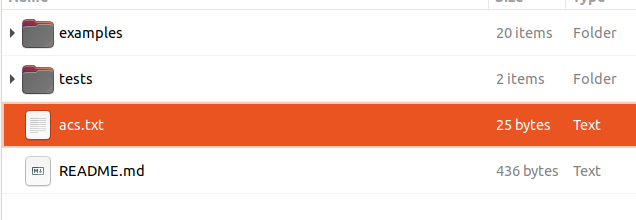
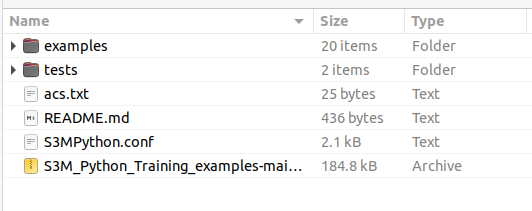
Improve tutorial.

diff --git a/docs/searchindex.js b/docs/searchindex.js
@@ -1,1 +1,1 @@
-Search.setIndex({docnames:["Approach","Introduction","LICENSE","Ontology","ReferenceModel","S3Model","Setup","index"],envversion:{"sphinx.domains.c":2,"sphinx.domains.changeset":1,"sphinx.domains.citation":1,"sphinx.domains.cpp":4,"sphinx.domains.index":1,"sphinx.domains.javascript":2,"sphinx.domains.math":2,"sphinx.domains.python":3,"sphinx.domains.rst":2,"sphinx.domains.std":2,sphinx:56},filenames:["Approach.rst","Introduction.rst","LICENSE.rst","Ontology.rst","ReferenceModel.rst","S3Model.rst","Setup.rst","index.rst"],objects:{},objnames:{},objtypes:{},terms:{"0":[2,4,5],"00":6,"1":4,"1887":[],"2":[2,5],"2009":2,"2020":5,"2022":2,"21090":4,"25":[],"3":[5,6],"30":[],"4":5,"45":5,"6":[],"7":6,"abstract":[0,3,4],"case":[5,6],"class":[0,3],"default":6,"do":[0,5,6],"float":4,"function":[0,4],"import":[0,1,4,5,6],"int":[],"long":6,"new":6,"null":5,"public":5,"return":6,"short":[],"try":1,"while":5,A:[0,1,3,4,5,6],AND:3,AS:2,And:5,As:0,At:5,Be:6,But:4,By:[],For:[0,1,4,5],IS:2,If:[0,3,6,7],In:[0,3,5,6],It:[0,3,5,6],NOT:3,No:0,Not:[3,4],OF:2,OR:[2,3],Of:0,On:6,One:0,Or:[],That:[5,6],The:[1,6,7],Then:5,There:[0,1,4,6],These:[4,5],To:6,_:2,abbrevi:3,abil:[0,5],abl:[],about:[0,1,4,5,6],abov:[1,5,6],absenc:5,abstract_model:3,accept:[],access:4,accident:6,accommod:4,accord:3,account:[],accuraci:[],across:[0,3,5],activ:[4,6],actual:[],ad:4,add:[4,5],addit:[3,4],addition:4,adher:[],advanc:5,advantag:[],after:[],against:[0,3],agi:[],agre:2,ai:5,air:4,algorithm:5,all:[0,1,3,4,6],allow:[0,4,5,6],almost:4,along:0,alreadi:[],also:[0,4,5],altern:5,although:[],alwai:[0,1],among:[],an:[0,2,3,4,5,6],anaconda:[5,6],analysi:[4,7],analyst:5,analyt:[],analyz:[0,5],ani:[0,2,4,6],anomal:5,anoth:0,answer:5,anyon:[],anyth:1,apach:2,appear:6,appli:[],applic:[0,1,2,4,5],approach:[1,5,6,7],appropri:[],approxim:5,ar:[0,1,3,4,5,6],archiv:[],area:[],arm:5,around:[0,5],articl:5,artifici:5,ask:6,asp:[],assign:[],associ:5,ateri:5,atmospher:5,attest:4,attribut:[0,4],audienc:7,audit:4,author:4,autom:5,automat:0,avail:[0,4,5,6],base:[0,1,3,5,6],basi:[0,2],basic:6,becaus:[0,3],becom:[1,5],been:[0,3],befor:1,begin:4,behavior:[],being:5,belgium:[],below:3,bespok:5,best:[5,6],better:[5,6],between:5,beyond:4,bill:[],bioport:5,blood:5,bodi:0,bold:0,boost:[],bore:[],both:[],bottom:1,brazil:[],broad:3,browser:6,budget:[],build:[0,1,5,6],built:[0,5],buisi:0,busi:[0,5],button:6,c:6,call:[3,5],came:[],can:[0,3,4,5,6],canon:4,capabl:4,captur:[4,5],cardin:[],categori:[],caution:3,cd:6,cell:[1,6],center:0,central:0,ceo:[],certain:0,certainli:6,cfo:[],chain:0,chang:[0,1,6],chapter:[0,1],charact:[],check:[],chief:[],children:3,china:[],choic:6,choos:0,chose:4,chosen:[0,5],chrome:6,claim:0,clariti:7,clean:5,clear:0,clearli:0,click:6,client:[],close:6,cm:3,cmc:3,code:[4,6],coher:1,collect:[4,5],collis:[],com:[0,2,3,4,5],combin:[],come:[],command:6,common:[4,5],commonli:[],commun:[0,5],compani:5,compat:4,complet:[1,4,6],complex:[0,4,5],complextyp:0,compli:[],complianc:[2,5],compliant:0,complimentari:[],compon:[0,1,3,4,6],comprehens:[],comput:[5,6],concept:[0,3,5],conceptu:0,concret:[],conda:6,condit:2,conduct:[],confirm:6,conform:[0,3],confus:3,congratul:6,connect:3,consid:[3,4],consist:[0,4,5],constrain:3,constraint:[0,3],construct:[],consum:5,contain:[3,4],content:[4,5],context:[0,4,5],contextu:[3,5],continu:[1,6],control:[4,5],convent:3,convers:4,convert:4,convien:6,coo:[],cook:2,copi:2,copyright:2,core:[3,4,7],corpor:[],could:[],cours:0,cousin:[],cover:[],coverag:4,creat:[0,5,6],creation:[4,5],creator:[],cross:5,cuff:5,cuid:4,current:7,dai:[],data:[0,1,3,4,6,7],databas:[0,4,5],datainst:3,datainstanceerror:3,datainstanceinvalid:3,datainstancevalid:3,datamodel:[],datatyp:[3,4],date:[],deal:5,decentr:5,decim:4,decis:5,defin:[0,3,4,5],definit:[0,3,4,5],demonstr:5,denot:[],depend:[],deriv:0,descend:4,describ:[0,4],descript:[4,5,6],design:[0,5],destin:[],detail:[0,1,4,6],determin:[],develop:[0,4,5,6],devic:[],devis:[],did:5,didn:[],differ:5,digit:[],direct:5,directli:[],directori:6,discard:3,discern:0,discov:5,displai:[0,6],distinct:4,distribut:2,dm:[0,3,6],dmtype:6,doc:[0,3,5],document:[0,1,3,4,5,6,7],doe:[0,3],domain:[0,3,4,5],don:6,download:6,downstream:[4,5],dr:[],drawback:1,dropdown:6,dublin:4,due:[0,4,5],dull:5,duplic:5,dure:[5,6],e:[],each:[1,3,4,5,6],earlier:6,eas:5,easi:0,easili:[0,4,5],ecosystem:0,edg:6,editor:[],either:2,el_complextyp:[],element:[0,3,4,6],els:1,empow:5,encourag:0,end:4,endeavor:[],energi:5,engin:5,enhanc:5,enough:[],enter:6,enterpris:0,entiti:[],entri:[],environ:6,equival:0,ericelliott:4,erron:[4,5],error:[4,5,7],especi:5,esperanto:7,essenti:4,etc:[4,6],european:[],even:0,everi:[],exampl:[0,4,5,7],except:[2,3,4],exchang:[0,5],execut:1,exercis:6,exist:[4,5],expand:4,expans:4,experi:1,expert:[0,5,6],explain:3,explor:6,express:[0,2,3,5],extens:[0,5],extern:6,extract:[5,6],extractor:6,facet:[],facil:4,fact:5,factor:0,familiar:1,far:6,favorit:5,fidel:5,field:[],fight:[],figur:5,file:[0,2,4,6,7],find:[0,5,6,7],firefox:6,first:6,fit:5,flag:4,flexabl:0,flexibl:[],folder:6,follow:6,forb:5,forg:6,formal:[],format:[0,4,5],formul:[],forth:[],found:[0,4,5],foundat:[0,4],framework:[0,5],franc:[],frequent:[],friendli:5,from:[0,1,3,4,5,6],front:[],full:5,fulli:5,further:[0,3],futur:0,g:[],gener:0,generaliz:0,gentl:1,geograph:4,germani:[],get:[6,7],github:[4,6],give:[],given:[0,3],global:[0,5],glossari:[0,5],go:[1,5,6],goe:5,good:5,govern:[0,2],graph:[0,3,5],great:1,green:6,group:[],grow:5,guid:[0,1],guidelin:0,ha:[0,3,6],hand:[],have:[0,5,6],healthcar:5,heart:[],help:[4,5,6],here:[0,1,4,6,7],hierarchi:0,high:0,higher:0,home:[],host:4,how:[0,5,6],howev:[0,1,3],html:[0,3,5],http:[0,2,3,4,5],human:5,id:0,idea:[3,4],identif:[],identifi:[0,4,5],ignor:5,imag:3,immedi:0,immut:[],implement:[0,1,3,4,5,6],implemnt:[],impli:2,imposs:0,improp:5,includ:[0,3,4],inconsist:5,index:7,indic:[3,6],individu:0,industri:[0,5],infer:0,inform:[0,3,4,5,7],infotrop:[],infrastructur:0,inherit:0,input:5,instal:[1,6],instanc:[0,3],instanti:5,instead:[],instruct:[1,6],insur:[],integ:4,integr:3,intellig:5,intend:5,interact:6,interchang:[],interconnect:5,interest:[],interfac:6,interlink:0,intern:5,internation:[],internet:6,interoper:[3,5,7],interpret:[5,6],introduct:[0,7],invalid:3,investig:5,involv:5,ipynb:6,isinstanceof:3,iso:4,issu:[0,5,6,7],itali:[],item:3,its:3,japan:[],javascript:[],json:[0,4,5],jupyt:[1,7],jupyterlab:6,just:5,kei:[6,7],kind:2,kingdom:[],know:[0,6],knowledg:5,known:5,label:0,lack:7,languag:[0,2,3,4,5],larg:5,last:6,later:6,latitud:4,law:2,ld:4,lead:5,learn:[5,6],least:3,less:[],lesson:6,level:7,li:[],librari:1,licens:[4,5,7],like:[0,6],limit:2,line:6,link:[0,4,5,6],linkedin:2,linux:6,list:6,local:4,locat:[4,5,6],logic:1,logo:6,longitud:4,look:6,loss:5,lot:5,mac:6,machin:5,made:[],mai:[0,2,3,4,5],mainli:[],major:[],make:[0,5],maker:5,manag:7,mandatori:3,mani:[4,5],manipul:4,manner:5,manual:[5,6],map:[],markup:5,mathemat:5,maximum:[],mc:[],mean:[4,5],meanin:[],meaning:5,measur:5,mechan:[],medium:[],meer:[],meet:5,menu:[1,6],metadata:4,method:[],might:[],migrat:0,minimum:[],miss:[4,5],mkdir:6,model:[0,1,3,5,6],modifi:4,modul:7,more:[0,3,4,5],most:5,move:[],movement:5,ms:0,much:[],multi:7,multipl:[0,3,5],music:5,must:[1,3,6],mutual:[],n:6,name:[0,1,3,6],narrow:0,nation:0,natur:[4,5],navig:6,necessari:0,need:[0,4,5,6],nest:0,net:0,network:[],never:0,next:[0,6],niem:0,node:[],non:6,notat:[],note:3,notebook:[1,7],now:[5,6],number:[0,6],object:[0,3],obtain:2,occur:[],occurr:[],offer:[],offici:1,often:[4,5],omiss:7,onc:[],one:[0,3,5],oner:5,onli:[0,5],onlin:[4,5],ontolog:[0,4,5,7],open:[5,6],oper:[4,6],option:[0,1,3,6],order:[4,5],org:[2,5],organ:[4,5],orient:0,origin:6,other:[0,3,4,5,6],otherwis:[],our:5,out:5,outcom:5,over:[],overview:7,owl:[0,5],own:5,p:[],packag:6,page:[0,1,6,7],paid:[],parent:[0,4],part:[],particip:4,particular:[],partner:[],partof:3,patient:5,perfect:5,perform:[],perman:5,permiss:2,person:[],phase:5,pip:6,pipelin:5,place:[0,6],platform:5,pleas:[0,7],point:[0,4,5],poland:[],poor:5,port:[],possibl:[],power:[],practic:3,pre:[],precari:1,preced:0,precis:[],predic:[],predict:5,prefer:[],prefix:0,prepar:5,prerequisit:7,present:[],pressur:5,pretti:5,primari:0,privaci:5,probabl:5,problem:7,process:[0,5],produc:[0,5],program:[0,4],project:5,prompt:6,prone:5,properti:3,propos:[],proposit:0,protocol:[],provid:[0,1,3,4,5],publish:5,pupos:[],purg:5,purpos:[0,5,7],put:[0,6],pypi:[],python:[1,6],qualifi:5,qualiti:4,queri:[0,5],question:5,quit:3,rang:4,rank:[],raw:5,rdf:[0,3,4,5],read:[],readabl:5,reader:5,readi:6,real:[0,5],realiz:[],reason:[4,5],receiv:0,recent:5,recommend:[1,6],reconcil:5,record:[4,5],reduc:0,ref:[],refer:[0,1,3,5,6,7],refernc:[],reflect:5,refresh:6,refus:5,regul:[],relat:[3,5],relationship:[0,4],releas:[],rememb:6,remov:5,replac:3,report:[3,7],repositori:6,repres:[0,3,4],represent:[],requir:[0,2,3,4,5],resart:6,research:0,resist:[],resourc:[4,5],respond:6,rest:1,restrict:0,result:5,retriev:0,reus:[0,3],reusabl:[3,7],revers:0,revis:[],rich:1,right:6,rip:[],rm:[0,3,4],rmc:3,rmss:3,robust:5,root:[0,3,6],row:[],rule:[],run:[1,6],s3m:[3,6],s3m_python:1,s3m_python_training_exampl:6,s3model:[0,3,4,6],s3mpython:6,s3mtrain:6,s:[0,7],safeti:0,sai:[],said:5,same:[5,6],scale:[],schema:[0,4,5],schema_facet:[],schemaloc:0,scienc:7,scientist:5,search:[0,5,7],secur:[0,5],see:[1,2,3,6],seem:[],select:[3,6],sem:[],semant:[0,1,3,4,5],send:[],sens:[],sensit:4,sensor:[4,5],sequenc:1,seri:[],serial:4,serv:3,server:6,session:[],set:[0,1,3,5,6],setup:[1,7],sever:5,sharabl:5,share:[0,5],shareabl:[0,3,5],should:[3,5,6],show:3,shown:6,side:6,similar:[4,5,6],simpl:[0,3,4,5],simpli:0,sinc:0,singl:3,situat:4,sketch:[],skill:[],slighlti:0,small:0,so:[],social:[0,5],softwar:[0,2],solut:7,solv:5,some:[1,3,5],sometim:3,sourc:[3,5],space:5,spatial:4,speaker:[],special:[],specif:[0,1,2,3,5],specifi:3,spend:5,spent:5,sponsor:0,sql:[4,5],ssn:0,stabl:5,stand:[],standard:[4,5],start:[6,7],state:3,statement:[],statist:5,step:[5,6],still:[0,5],storag:5,store:[0,5],strategi:[],string:[0,4],strong:[],strongli:1,structur:[3,4,5],studi:[],subclass:3,subdirectori:6,subject:[],substitut:3,successfulli:6,suffici:[0,4,5],suggest:1,suit:0,summari:7,superclass:[],superset:[],suppli:5,support:3,sure:[1,6],surprisingli:[],survei:5,suspect:3,symbol:3,syntact:3,syntax:5,system:[5,6],t:6,tab:6,tabl:[],tag:4,target:7,technic:[0,1,3],techniqu:[],technolog:[],tediou:5,temperatur:5,tempor:4,term:[0,7],termin:6,test:[3,6],text:[],than:5,thei:[0,4,5],them:4,themselv:[],therefor:[0,5],thi:[0,2,3,4,5,6,7],thing:[1,6],think:6,those:[4,5],though:0,thouogh:[],three:[],through:[1,3,5],thu:[],time:[0,4,5],timothi:2,timothywaynecook:2,titl:4,todai:[],tool:[0,1,4,5],top:1,toward:5,transfer:4,transit:3,translat:[],transmit:[],tree:5,tripl:[],turtl:4,tutori:7,two:[],type:[0,3,4],typic:5,ubiqu:0,ubiquit:4,unambigu:[],unbound:[],under:[2,5],understand:[5,6],uniqu:[0,4],unit:[],unknown:5,unless:[2,6],up:5,upon:0,upper:3,us:[0,2,3,4,5,6,7],usag:4,user:[0,1,4,6],usual:[3,5],utmost:5,valid:[0,3,4,5],valu:[0,1,3,4,5],valuabl:[1,3],variou:[0,5],veri:0,versa:[],version:[0,2,3,6],via:[3,5],vice:[],view:[],virtual:4,vocabulari:5,vs:[],w3c:[],w3school:[],w:2,wa:[4,5],wai:6,want:[],warranti:2,we:[0,1,4,5,6],web3:5,web:[5,6],websit:[],well:[3,4,6],went:6,what:[4,7],when:[0,1,3,5,6],where:[0,6],which:[3,5],white:5,whiteboard:[],who:4,whole:[],why:5,wide:[],window:6,within:0,without:[2,5],word:[],work:[0,1,5],world:0,wrapper:6,write:2,www:2,xdanytyp:4,xdcount:0,xdcounttyp:0,xml:[0,4,5],xsi:0,y:6,you:[0,1,2,5,6,7],your:[0,5,6],zamenhof:[],zip:6},titles:["The Multi-Level Approach","S3Model Introduction","License","The Ontology","The Reference Model","What is S3Model?","Tutorial Setup","Shareable, Structured, Semantic Model (S3Model)"],titleterms:{The:[0,3,4,5],analysi:5,approach:0,audienc:5,cardin:[],content:7,core:0,current:5,data:5,exampl:6,get:1,glossari:[],guid:7,indic:7,interoper:0,introduct:1,jupyt:6,kei:0,level:0,licens:2,model:[4,7],multi:0,notebook:6,ontolog:3,overview:[0,4],prerequisit:6,problem:5,purpos:[3,4],refer:4,reusabl:0,s3model:[1,5,7],s:5,scienc:5,semant:7,setup:6,shareabl:7,solut:5,start:1,structur:7,summari:[0,5],tabl:7,target:5,term:3,tutori:[1,6],us:1,user:7,what:5}})
+Search.setIndex({docnames:["Approach","Introduction","LICENSE","Ontology","ReferenceModel","S3Model","Setup","index"],envversion:{"sphinx.domains.c":2,"sphinx.domains.changeset":1,"sphinx.domains.citation":1,"sphinx.domains.cpp":4,"sphinx.domains.index":1,"sphinx.domains.javascript":2,"sphinx.domains.math":2,"sphinx.domains.python":3,"sphinx.domains.rst":2,"sphinx.domains.std":2,sphinx:56},filenames:["Approach.rst","Introduction.rst","LICENSE.rst","Ontology.rst","ReferenceModel.rst","S3Model.rst","Setup.rst","index.rst"],objects:{},objnames:{},objtypes:{},terms:{"0":[2,4,5],"00":6,"1":4,"1887":[],"2":[2,5],"2009":2,"2020":5,"2022":2,"21090":4,"25":[],"3":[5,6],"30":[],"4":5,"45":5,"6":[],"7":6,"abstract":[0,3,4],"case":[5,6],"class":[0,3],"default":6,"do":[0,5,6],"float":4,"function":[0,4],"import":[0,1,4,5,6],"int":[],"long":6,"new":6,"null":5,"public":5,"return":6,"short":[],"try":1,"while":5,A:[0,1,3,4,5,6],AND:3,AS:2,And:5,As:0,At:5,Be:6,But:4,By:[],For:[0,1,4,5],IS:2,If:[0,3,6,7],In:[0,3,5,6],It:[0,3,5,6],NOT:3,No:0,Not:[3,4],OF:2,OR:[2,3],Of:0,On:6,One:0,Or:[],That:[5,6],The:[1,6,7],Then:5,There:[0,1,4,6],These:[4,5],To:6,_:2,abbrevi:3,abil:[0,5],abl:[],about:[0,1,4,5,6],abov:[1,5,6],absenc:5,abstract_model:3,accept:[],access:4,accident:6,accommod:4,accord:3,account:[],accuraci:[],across:[0,3,5],activ:[4,6],actual:[],ad:4,add:[4,5],addit:[3,4],addition:4,adher:[],advanc:5,advantag:[],after:[],against:[0,3],agi:[],agre:2,ai:5,air:4,algorithm:5,all:[0,1,3,4,6],allow:[0,4,5,6],almost:4,along:0,alreadi:[],also:[0,4,5],altern:5,although:[],alwai:[0,1],among:[],an:[0,2,3,4,5,6],anaconda:[5,6],analysi:[4,7],analyst:5,analyt:[],analyz:[0,5],ani:[0,2,4],anomal:5,anoth:0,answer:5,anyon:[],anyth:1,apach:2,appear:6,appli:[],applic:[0,1,2,4,5],approach:[1,5,6,7],appropri:[],approxim:5,ar:[0,1,3,4,5,6],archiv:[],area:[],arm:5,around:[0,5],articl:5,artifici:5,ask:6,asp:[],assign:[],associ:5,ateri:5,atmospher:5,attest:4,attribut:[0,4],audienc:7,audit:4,author:4,autom:5,automat:0,avail:[0,4,5,6],base:[0,1,3,5,6],basi:[0,2],basic:6,becaus:[0,3],becom:[1,5],been:[0,3],befor:1,begin:4,behavior:[],being:5,belgium:[],below:3,bespok:5,best:[5,6],better:[5,6],between:5,beyond:4,bill:[],bioport:5,blood:5,bodi:0,bold:0,boost:[],bore:[],both:[],bottom:1,brazil:[],broad:3,browser:6,budget:[],build:[0,1,5,6],built:[0,5],buisi:0,busi:[0,5],button:6,c:6,call:[3,5],came:[],can:[0,3,4,5,6],canon:4,capabl:4,captur:[4,5],cardin:[],categori:[],caution:3,cd:6,cell:[1,6],center:0,central:0,ceo:[],certain:0,certainli:6,cfo:[],chain:0,chang:[0,1,6],chapter:[0,1],charact:[],check:[],chief:[],children:3,china:[],choic:6,choos:0,chose:4,chosen:[0,5],chrome:6,claim:0,clariti:7,clean:5,clear:0,clearli:0,click:6,client:[],close:6,cm:3,cmc:3,code:[4,6],coher:1,collect:[4,5],collis:[],com:[0,2,3,4,5],combin:[],come:[],command:6,common:[4,5],commonli:[],commun:[0,5],compani:5,compat:4,complet:[1,4,6],complex:[0,4,5],complextyp:0,compli:[],complianc:[2,5],compliant:0,complimentari:[],compon:[0,1,3,4,6],comprehens:[],comput:[5,6],concept:[0,3,5],conceptu:0,concret:[],conda:6,condit:2,conduct:[],confirm:6,conform:[0,3],confus:3,congratul:6,connect:3,consid:[3,4],consist:[0,4,5],constrain:3,constraint:[0,3],construct:[],consum:5,contain:[3,4],content:[4,5],context:[0,4,5],contextu:[3,5],continu:[1,6],control:[4,5],convent:3,convers:4,convert:4,convien:6,coo:[],cook:2,copi:2,copyright:2,core:[3,4,7],corpor:[],could:[],cours:0,cousin:[],cover:[],coverag:4,creat:[0,5,6],creation:[4,5],creator:[],cross:5,cuff:5,cuid:4,current:7,dai:[],data:[0,1,3,4,6,7],databas:[0,4,5],datainst:3,datainstanceerror:3,datainstanceinvalid:3,datainstancevalid:3,datamodel:[],datatyp:[3,4],date:[],deal:5,decentr:5,decim:4,decis:5,defin:[0,3,4,5],definit:[0,3,4,5],demonstr:5,denot:[],depend:[],deriv:0,descend:4,describ:[0,4],descript:[4,5,6],design:[0,5],destin:[],detail:[0,1,4,6],determin:[],develop:[0,4,5,6],devic:[],devis:[],did:5,didn:[],differ:5,digit:[],direct:5,directli:[],directori:6,discard:3,discern:0,discov:5,displai:[0,6],distinct:4,distribut:2,dm:[0,3,6],dmtype:6,doc:[0,3,5],document:[0,1,3,4,5,6,7],doe:[0,3],domain:[0,3,4,5],don:6,download:6,downstream:[4,5],dr:[],drawback:1,dropdown:6,dublin:4,due:[0,4,5],dull:5,duplic:5,dure:[5,6],e:[],each:[1,3,4,5,6],earlier:6,eas:5,easi:0,easili:[0,4,5],ecosystem:0,edg:6,editor:[],either:2,el_complextyp:[],element:[0,3,4,6],els:1,empow:5,encourag:0,end:4,endeavor:[],energi:5,engin:5,enhanc:5,enough:[],enter:6,enterpris:0,entiti:[],entri:[],environ:6,equival:0,ericelliott:4,erron:[4,5],error:[4,5,7],especi:5,esperanto:7,essenti:4,etc:[4,6],european:[],even:0,everi:[],exampl:[0,4,5,7],except:[2,3,4],exchang:[0,5],execut:1,exercis:6,exist:[4,5],expand:4,expans:4,experi:1,expert:[0,5,6],explain:3,explor:6,express:[0,2,3,5],extens:[0,5],extern:6,extract:[5,6],extractor:6,facet:[],facil:4,fact:5,factor:0,familiar:1,far:6,favorit:5,fidel:5,field:[],fight:[],figur:5,file:[0,2,4,6,7],find:[0,5,6,7],firefox:6,first:6,fit:5,flag:4,flexabl:0,flexibl:[],folder:6,follow:6,forb:5,forg:6,formal:[],format:[0,4,5],formul:[],forth:[],found:[0,4,5],foundat:[0,4],framework:[0,5],franc:[],frequent:[],friendli:5,from:[0,1,3,4,5,6],front:[],full:5,fulli:5,further:[0,3],futur:0,g:[],gener:0,generaliz:0,gentl:1,geograph:4,germani:[],get:7,github:[4,6],give:[],given:[0,3],global:[0,5],glossari:[0,5],go:[1,5,6],goe:5,good:5,govern:[0,2],graph:[0,3,5],great:1,green:6,group:[],grow:5,guid:[0,1],guidelin:0,ha:[0,3,6],hand:[],have:[0,5,6],healthcar:5,heart:[],help:[4,5,6],here:[0,1,4,6,7],hierarchi:0,high:0,higher:0,home:[],host:4,how:[0,5,6],howev:[0,1,3],html:[0,3,5],http:[0,2,3,4,5],human:5,id:0,idea:[3,4],identif:[],identifi:[0,4,5],ignor:5,imag:3,immedi:0,immut:[],implement:[0,1,3,4,5,6],implemnt:[],impli:2,imposs:0,improp:5,includ:[0,3,4],inconsist:5,index:7,indic:[3,6],individu:0,industri:[0,5],infer:0,inform:[0,3,4,5,7],infotrop:[],infrastructur:0,inherit:0,input:5,instal:[1,7],instanc:[0,3],instanti:5,instead:[],instruct:[1,6],insur:[],integ:4,integr:3,intellig:5,intend:5,interact:6,interchang:[],interconnect:5,interest:[],interfac:6,interlink:0,intern:5,internation:[],internet:6,interoper:[3,5,7],interpret:[5,6],introduct:[0,7],invalid:3,investig:5,involv:5,ipynb:6,isinstanceof:3,iso:4,issu:[0,5,6,7],itali:[],item:3,its:3,japan:[],javascript:[],json:[0,4,5],jupyt:[1,7],jupyterlab:6,just:[5,6],kei:[6,7],kind:2,kingdom:[],know:[0,6],knowledg:5,known:5,label:0,lack:7,languag:[0,2,3,4,5],larg:5,last:6,later:6,latitud:4,law:2,ld:4,lead:5,learn:[5,6],least:3,leav:6,less:[],lesson:6,level:7,li:[],librari:1,licens:[4,5,7],like:[0,6],limit:2,line:6,link:[0,4,5,6],linkedin:2,linux:6,list:6,local:4,locat:[4,5],logic:1,logo:6,longitud:4,look:6,loss:5,lot:5,mac:6,machin:5,made:[],mai:[0,2,3,4,5],mainli:[],major:[],make:[0,5],maker:5,manag:7,mandatori:3,mani:[4,5],manipul:4,manner:5,manual:[5,6],map:[],markup:5,mathemat:5,maximum:[],mc:[],mean:[4,5],meanin:[],meaning:5,measur:5,mechan:[],medium:[],meer:[],meet:5,menu:[1,6],metadata:4,method:[],might:[],migrat:0,minimum:[],miss:[4,5],mkdir:6,model:[0,1,3,5,6],modifi:4,modul:7,more:[0,3,4,5],most:5,move:[],movement:5,ms:0,much:[],multi:7,multipl:[0,3,5],music:5,must:[1,3,6],mutual:[],n:6,name:[0,1,3,6],narrow:0,nation:0,natur:[4,5],navig:6,necessari:0,need:[0,4,5,6],nest:0,net:0,network:[],never:0,next:[0,6],niem:0,node:[],non:6,notat:[],note:3,notebook:[1,7],now:[5,6],number:[0,6],object:[0,3],obtain:2,occur:[],occurr:[],offer:[],offici:1,often:[4,5],omiss:7,onc:[],one:[0,3,5],oner:5,onli:[0,5],onlin:[4,5],ontolog:[0,4,5,7],open:[5,6],oper:[4,6],option:[0,1,3,6],order:[4,5],org:[2,5],organ:[4,5],orient:0,origin:6,other:[0,3,4,5,6],otherwis:[],our:5,out:5,outcom:5,over:[],overview:7,owl:[0,5],own:5,p:[],packag:6,page:[0,1,6,7],paid:[],parent:[0,4],part:[],particip:4,particular:[],partner:[],partof:3,patient:5,perfect:5,perform:[],perman:5,permiss:2,person:[],phase:5,pip:6,pipelin:5,place:[0,6],platform:5,pleas:[0,7],point:[0,4,5],poland:[],poor:5,port:[],possibl:[],power:[],practic:3,pre:[],precari:1,preced:0,precis:[],predic:[],predict:5,prefer:[],prefix:0,prepar:5,prerequisit:7,present:[],pressur:5,pretti:5,primari:0,privaci:5,probabl:5,problem:7,process:[0,5],produc:[0,5],program:[0,4],project:5,prompt:6,prone:5,properti:3,propos:[],proposit:0,protocol:[],provid:[0,1,3,4,5],publish:5,pupos:[],purg:5,purpos:[0,5,7],put:[0,6],pypi:[],python:[1,6],qualifi:5,qualiti:4,queri:[0,5],question:5,quit:3,rang:4,rank:[],raw:5,rdf:[0,3,4,5],read:[],readabl:5,reader:5,readi:6,real:[0,5],realiz:[],reason:[4,5],receiv:0,recent:5,recommend:[1,6],reconcil:5,record:[4,5],reduc:0,ref:[],refer:[0,1,3,5,6,7],refernc:[],reflect:5,refresh:6,refus:5,regul:[],relat:[3,5],relationship:[0,4],releas:[],rememb:6,remov:5,replac:3,report:[3,7],repositori:6,repres:[0,3,4],represent:[],requir:[0,2,3,4,5],resart:6,research:0,resist:[],resourc:[4,5],respond:6,rest:1,restrict:0,result:5,retriev:0,reus:[0,3],reusabl:[3,7],revers:0,revis:[],rich:1,right:6,rip:[],rm:[0,3,4],rmc:3,rmss:3,robust:5,root:[0,3,6],row:[],rule:[],run:[1,6],s3m:[3,6],s3m_python:1,s3m_python_training_exampl:6,s3model:[0,3,4,6],s3mpython:6,s3mtrain:6,s:[0,7],safeti:0,sai:[],said:5,same:[5,6],save:6,scale:[],schema:[0,4,5],schema_facet:[],schemaloc:0,scienc:7,scientist:5,search:[0,5,7],secur:[0,5],see:[1,2,3,6],seem:[],select:[3,6],sem:[],semant:[0,1,3,4,5],send:[],sens:[],sensit:4,sensor:[4,5],sequenc:1,seri:[],serial:4,serv:3,server:6,session:[],set:[0,1,3,5,6],setup:[1,7],sever:5,sharabl:5,share:[0,5],shareabl:[0,3,5],should:[3,5,6],show:3,shown:6,side:6,similar:[4,5,6],simpl:[0,3,4,5],simpli:0,sinc:0,singl:3,situat:4,sketch:[],skill:[],slighlti:0,small:0,so:[],social:[0,5],softwar:[0,2],solut:7,solv:5,some:[1,3,5],sometim:3,sourc:[3,5],space:5,spatial:4,speaker:[],special:[],specif:[0,1,2,3,5],specifi:3,spend:5,spent:5,sponsor:0,sql:[4,5],ssn:0,stabl:5,stand:[],standard:[4,5],start:[6,7],state:3,statement:[],statist:5,step:[5,6],still:[0,5],storag:5,store:[0,5],strategi:[],string:[0,4],strong:[],strongli:1,structur:[3,4,5],studi:[],subclass:3,subdirectori:6,subject:[],substitut:3,successfulli:6,suffici:[0,4,5],suggest:1,suit:0,summari:7,superclass:[],superset:[],suppli:5,support:3,sure:[1,6],surprisingli:[],survei:5,suspect:3,symbol:3,syntact:3,syntax:5,system:[5,6],t:6,tab:6,tabl:[],tag:4,target:7,technic:[0,1,3],techniqu:[],technolog:[],tediou:5,temperatur:5,tempor:4,term:[0,7],termin:6,test:[3,7],text:[],than:5,thei:[0,4,5],them:4,themselv:[],therefor:[0,5],thi:[0,2,3,4,5,6,7],thing:[1,6],think:6,those:[4,5],though:0,thouogh:[],three:[],through:[1,3,5],thu:[],time:[0,4,5],timothi:2,timothywaynecook:2,titl:4,todai:[],tool:[0,1,4,5],top:1,toward:5,transfer:4,transit:3,translat:[],transmit:[],tree:5,tripl:[],turtl:4,tutori:7,two:[],type:[0,3,4],typic:5,ubiqu:0,ubiquit:4,unambigu:[],unbound:[],under:[2,5],understand:[5,6],uniqu:[0,4],unit:[],unknown:5,unless:[2,6],up:5,upon:0,upper:3,us:[0,2,3,4,5,6,7],usag:4,user:[0,1,4,6],usual:[3,5],utmost:5,valid:[0,3,4,5],valu:[0,1,3,4,5],valuabl:[1,3],variou:[0,5],veri:0,versa:[],version:[0,2,3,6],via:[3,5],vice:[],view:[],virtual:4,vocabulari:5,vs:[],w3c:[],w3school:[],w:2,wa:[4,5],wai:6,want:[],warn:6,warranti:2,we:[0,1,4,5,6],web3:5,web:[5,6],websit:[],well:[3,4,6],went:6,what:[4,7],when:[0,1,3,5,6],where:[0,6],which:[3,5],white:5,whiteboard:[],who:4,whole:[],why:5,wide:[],window:6,within:0,without:[2,5],won:6,word:[],work:[0,1,5],world:0,wrapper:6,write:2,www:2,xdanytyp:4,xdcount:0,xdcounttyp:0,xml:[0,4,5],xsi:0,y:6,you:[0,1,2,5,6,7],your:[0,5,6],zamenhof:[],zip:6},titles:["The Multi-Level Approach","S3Model Introduction","License","The Ontology","The Reference Model","What is S3Model?","Tutorial Setup","Shareable, Structured, Semantic Model (S3Model)"],titleterms:{The:[0,3,4,5],analysi:5,approach:0,audienc:5,cardin:[],content:7,core:0,current:5,data:5,exampl:6,get:[1,6],glossari:[],guid:7,indic:7,instal:6,interoper:0,introduct:1,jupyt:6,kei:0,level:0,licens:2,model:[4,7],multi:0,notebook:6,ontolog:3,overview:[0,4],prerequisit:6,problem:5,purpos:[3,4],refer:4,reusabl:0,s3model:[1,5,7],s:5,scienc:5,semant:7,setup:6,shareabl:7,solut:5,start:1,structur:7,summari:[0,5],tabl:7,target:5,term:3,test:6,tutori:[1,6],us:1,user:7,what:5}})

diff --git a/docs/Setup.html b/docs/Setup.html
@@ -51,6 +51,8 @@
 <li class="toctree-l1"><a class="reference internal" href="Ontology.html">The Ontology</a></li>
 <li class="toctree-l1 current"><a class="current reference internal" href="#">Tutorial Setup</a><ul>
 <li class="toctree-l2"><a class="reference internal" href="#prerequisites">Prerequisites</a></li>
+<li class="toctree-l2"><a class="reference internal" href="#get-the-examples">Get the examples</a></li>
+<li class="toctree-l2"><a class="reference internal" href="#testing-the-installation">Testing the installation</a></li>
 <li class="toctree-l2"><a class="reference internal" href="#jupyter-notebook-examples">Jupyter notebook examples</a></li>
 </ul>
 </li>
@@ -142,6 +144,27 @@
 </pre></div>
 </div>
 <p>This command should open a new tab in your default web browser (Firefox, Chrome, Edge, etc.)</p>
+</section>
+<section id="get-the-examples">
+<h2>Get the examples<a class="headerlink" href="#get-the-examples" title="Permalink to this headline">¶</a></h2>
+<p>In a new browser tab, go to the <a class="reference external" href="https://github.com/twcook/S3M_Python_Training_examples">Github repository</a> to download the examples.</p>
+<p>Click on the green <em>Code</em> button on the right side of the page.</p>
+<img alt="_images/green_code.png" src="_images/green_code.png" />
+<p>A dropdown menu will appear.</p>
+<img alt="_images/download_zip.png" src="_images/download_zip.png" />
+<p>Select the <em>Download Zip</em> link. Download this file to the <em>S3MTraining</em> directory.</p>
+<p>Using your ZIP file extractor of choice:</p>
+<ul class="simple">
+<li><p>Open the <em>S3M_Python_Training_examples</em> folder in the ZIP extractor.</p></li>
+<li><p>Extract the files and folders into the <em>S3MTraining</em> folder created earlier.</p></li>
+</ul>
+<p>The <em>S3MTraining</em> folder should look similar to:</p>
+<img alt="_images/extracted.png" src="_images/extracted.png" />
+</section>
+<section id="testing-the-installation">
+<h2>Testing the installation<a class="headerlink" href="#testing-the-installation" title="Permalink to this headline">¶</a></h2>
+<p>In the original Jupyter Notebook browser tab:</p>
+<img alt="_images/Jupyter_home.png" src="_images/Jupyter_home.png" />
 <p>Create a new notebook by clicking on the <em>New</em> button on the right side of the window.</p>
 <p>A menu will dropdown as shown here:</p>
 <img alt="_images/Jupyter_New_Notebook.png" src="_images/Jupyter_New_Notebook.png" />
@@ -159,25 +182,10 @@
 <p>If all went well your window should have this display:</p>
 <img alt="_images/After_Run.png" src="_images/After_Run.png" />
 <p>The elements and descriptions for the Data Model (DM) wrapper will be displayed as shown above. Each model component has a help file that you can display in the same way.</p>
-<p><strong>Close this browser tab.</strong></p>
+<p><strong>Close this browser tab.</strong> If you get a Warning that your changes won’t be saved. Just click the <em>Leave</em> button.</p>
 </section>
 <section id="jupyter-notebook-examples">
 <h2>Jupyter notebook examples<a class="headerlink" href="#jupyter-notebook-examples" title="Permalink to this headline">¶</a></h2>
-<p>To download the examples go to the <a class="reference external" href="https://github.com/twcook/S3M_Python_Training_examples">Github repository</a>.</p>
-<p>Click on the green <em>Code</em> button on the right side of the page.</p>
-<img alt="_images/green_code.png" src="_images/green_code.png" />
-<p>A dropdown menu will appear.</p>
-<img alt="_images/download_zip.png" src="_images/download_zip.png" />
-<p>Select the <em>Download Zip</em> link. Download this file to any convienent location.</p>
-<p>Using your ZIP file extractor of choice:</p>
-<ul class="simple">
-<li><p>Open the <em>S3M_Python_Training_examples</em> folder.</p></li>
-<li><p>Extract the files and folders into the <em>S3MTraining</em> folder created earlier.</p></li>
-</ul>
-<p>The <em>S3MTraining</em> folder should look similar to:</p>
-<img alt="_images/extracted.png" src="_images/extracted.png" />
-<p>In the original Jupyter Notebook tab:</p>
-<img alt="_images/Jupyter_home.png" src="_images/Jupyter_home.png" />
 <ul class="simple">
 <li><p>select the <em>examples</em> folder. If you do not see the folder. There is a <em>Refresh</em> button next to the <em>New</em> button that you used earlier.</p></li>
 <li><p>in the <em>examples</em> folder, select the <em>00. Getting Started.ipynb</em> file.</p></li>

diff --git a/docs/index.html b/docs/index.html
@@ -127,6 +127,8 @@
 </li>
 <li class="toctree-l1"><a class="reference internal" href="Setup.html">Tutorial Setup</a><ul>
 <li class="toctree-l2"><a class="reference internal" href="Setup.html#prerequisites">Prerequisites</a></li>
+<li class="toctree-l2"><a class="reference internal" href="Setup.html#get-the-examples">Get the examples</a></li>
+<li class="toctree-l2"><a class="reference internal" href="Setup.html#testing-the-installation">Testing the installation</a></li>
 <li class="toctree-l2"><a class="reference internal" href="Setup.html#jupyter-notebook-examples">Jupyter notebook examples</a></li>
 </ul>
 </li>

diff --git a/docs_source/source/Setup.rst b/docs_source/source/Setup.rst
@@ -73,6 +73,37 @@ Test the installation by starting the Jupyter Notebooks server::
 
 This command should open a new tab in your default web browser (Firefox, Chrome, Edge, etc.)
 
+Get the examples
+----------------
+
+In a new browser tab, go to the `Github repository <https://github.com/twcook/S3M_Python_Training_examples>`_ to download the examples.
+
+Click on the green *Code* button on the right side of the page.
+
+.. image:: _static/green_code.png
+
+A dropdown menu will appear.
+
+.. image:: _static/download_zip.png
+
+Select the *Download Zip* link. Download this file to the *S3MTraining* directory.
+
+Using your ZIP file extractor of choice:
+
+* Open the *S3M_Python_Training_examples* folder in the ZIP extractor.
+* Extract the files and folders into the *S3MTraining* folder created earlier.
+
+The *S3MTraining* folder should look similar to:
+
+.. image:: _static/extracted.png
+
+
+Testing the installation
+------------------------
+
+In the original Jupyter Notebook browser tab: 
+
+.. image:: _static/Jupyter_home.png
 
 Create a new notebook by clicking on the *New* button on the right side of the window. 
 
@@ -102,36 +133,12 @@ If all went well your window should have this display:
 
 The elements and descriptions for the Data Model (DM) wrapper will be displayed as shown above. Each model component has a help file that you can display in the same way. 
 
-**Close this browser tab.**
+**Close this browser tab.** If you get a Warning that your changes won't be saved. Just click the *Leave* button.
 
 
 Jupyter notebook examples
 -------------------------
 
-To download the examples go to the `Github repository <https://github.com/twcook/S3M_Python_Training_examples>`_.
-
-Click on the green *Code* button on the right side of the page.
-
-.. image:: _static/green_code.png
-
-A dropdown menu will appear.
-
-.. image:: _static/download_zip.png
-
-Select the *Download Zip* link. Download this file to any convienent location.
-
-Using your ZIP file extractor of choice:
-
-* Open the *S3M_Python_Training_examples* folder.
-* Extract the files and folders into the *S3MTraining* folder created earlier.
-
-The *S3MTraining* folder should look similar to:
-
-.. image:: _static/extracted.png
-
-In the original Jupyter Notebook tab: 
-
-.. image:: _static/Jupyter_home.png
 
 * select the *examples* folder. If you do not see the folder. There is a *Refresh* button next to the *New* button that you used earlier.
 
